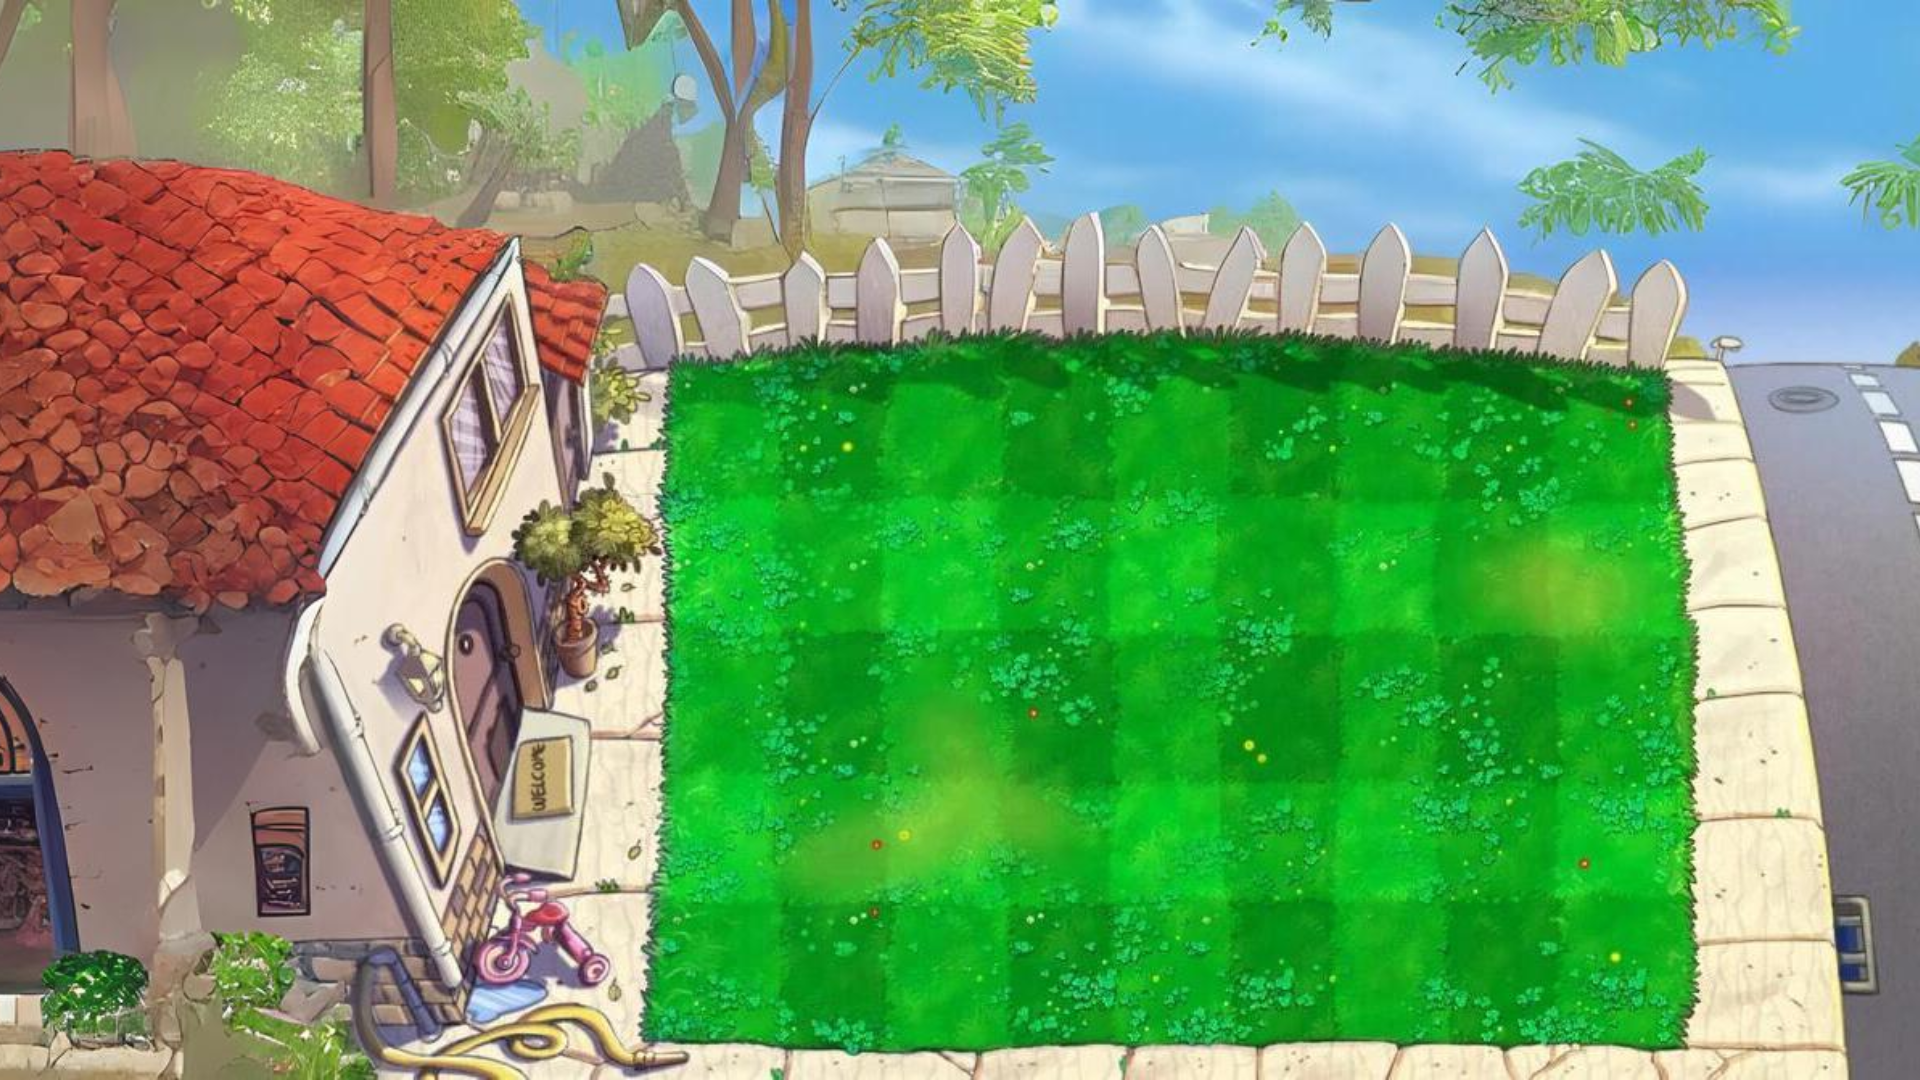
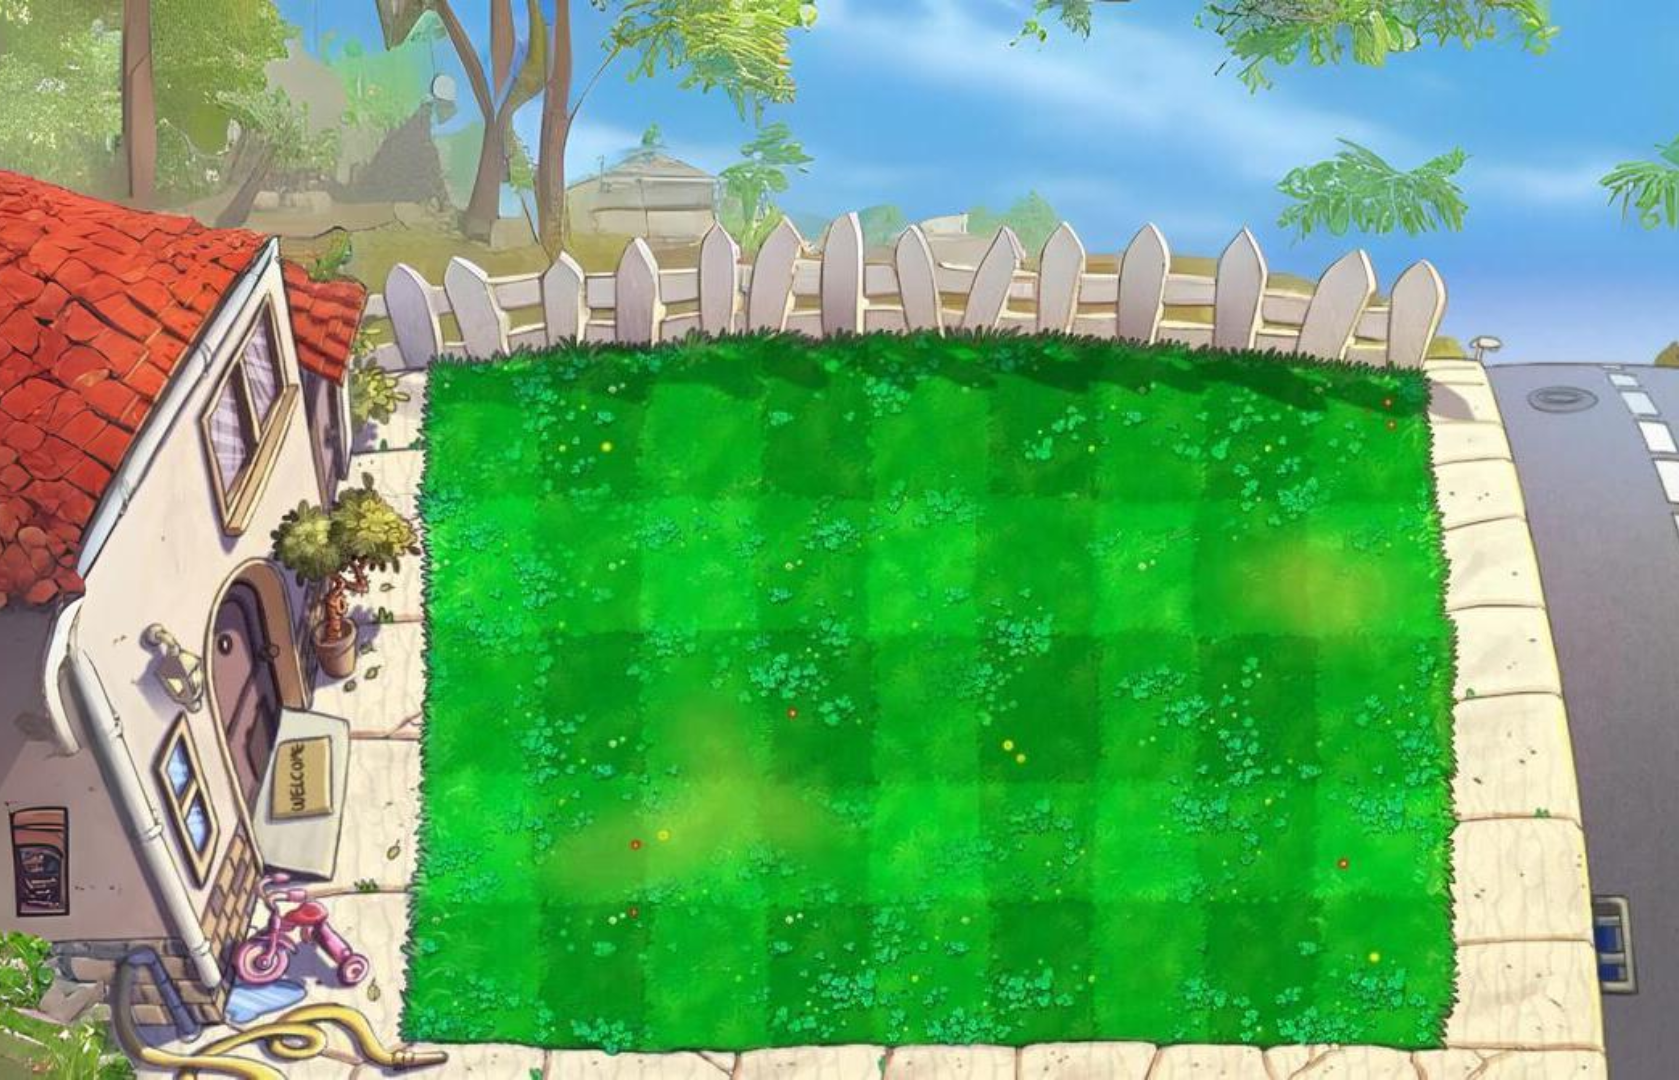
Fixed grid in normal game interface

diff --git a/PVZ/src/presentation/Board.java b/PVZ/src/presentation/Board.java
@@ -16,7 +16,7 @@ public class Board extends JFrame {
     private Entity selectedPlant = null;
     private boolean isShovelSelected = false; // Variable to track if the shovel is selected
     private final int gridSize = 90; // Tamaño de cada cuadro de la grilla
-    private final int minX = 450;
+    private final int minX = 360;
     private final int maxX = 1080;
     private final int minY = 270;
     private final int maxY = 630;
@@ -72,13 +72,18 @@ public class Board extends JFrame {
 
         for (Entity entity : entities) {
             JLabel entityLabel = new JLabel(entity.getIcon());
-            entityLabel.setBounds(x, y, entity.getIcon().getIconWidth(), entity.getIcon().getIconHeight());
+            entityLabel.setBounds(x, y + ((70-(entity.getIcon().getIconHeight()))/2), entity.getIcon().getIconWidth(), entity.getIcon().getIconHeight());
             entityLabel.addMouseListener(createPlantMouseListener(entityLabel, entity));
             background.add(entityLabel);
             background.setComponentZOrder(entityLabel, 0);
 
+            JLabel sunLabel = new JLabel(new ImageIcon(getClass().getClassLoader().getResource("assets/Images/inGame/board/LittleSun.png")));
+            sunLabel.setBounds(x + (entity.getIcon().getIconWidth() / 2) - 25, 150, 20, 20);
+            background.add(sunLabel);
+            background.setComponentZOrder(sunLabel, 0);
+
             JLabel costLabel = new JLabel(String.valueOf(entity.getCost()));
-            costLabel.setBounds(x + (entity.getIcon().getIconWidth() / 2), y + entity.getIcon().getIconHeight(), 50, 20);
+            costLabel.setBounds(x + (entity.getIcon().getIconWidth() / 2), 150, 50, 20);
             costLabel.setFont(new Font("Arial", Font.BOLD, 16));
             costLabel.setForeground(Color.BLACK);
             background.add(costLabel);
@@ -124,7 +129,7 @@ public class Board extends JFrame {
                             entities.add(newPlant);
 
                             JLabel plantLabel = new JLabel(newPlant.getIcon());
-                            plantLabel.setBounds(gridX + 20, gridY, newPlant.getIcon().getIconWidth(), newPlant.getIcon().getIconHeight());
+                            plantLabel.setBounds(gridX +((90-newPlant.getIcon().getIconWidth())/2), gridY, newPlant.getIcon().getIconWidth(), newPlant.getIcon().getIconHeight());
                             background.add(plantLabel);
                             background.setComponentZOrder(plantLabel, 0);
                             background.repaint(); // Ensure the panel is repainted
@@ -135,10 +140,10 @@ public class Board extends JFrame {
                             ex.printStackTrace();
                         }
                     } else {
-                        System.out.println("No plant selected or shovel not selected.");
+                        System.out.println("No plant selected or shovel not selected."+ gridX + "," + gridY);
                     }
                 } else {
-                    System.out.println("Click outside the allowed grid area.");
+                    System.out.println("Click outside the allowed grid area."+ gridX + "," + gridY);
                 }
             }
         });
@@ -244,5 +249,12 @@ class JpanelImage1 extends JPanel {
     protected void paintComponent(Graphics g) {
         super.paintComponent(g);
         g.drawImage(image, 0, 0, this.getWidth(), this.getHeight(), this);
+
+        g.setColor(Color.RED);
+        for (int i = 0; i < getWidth(); i += gridSize) {
+            for (int j = 0; j < getHeight(); j += gridSize) {
+                g.drawRect(i, j, gridSize, gridSize);
+            }
+        }
     }
 }
